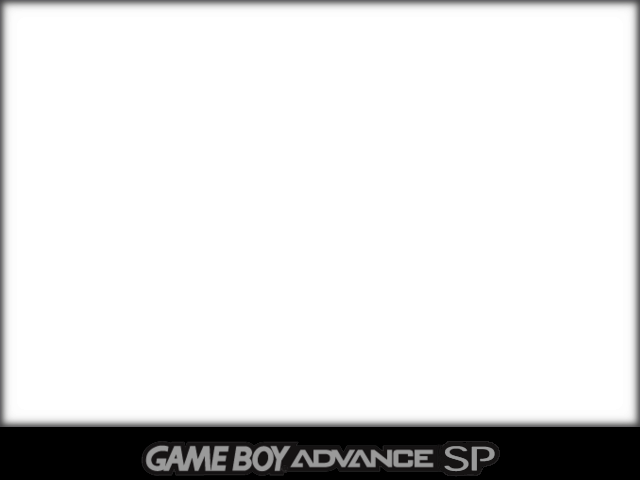
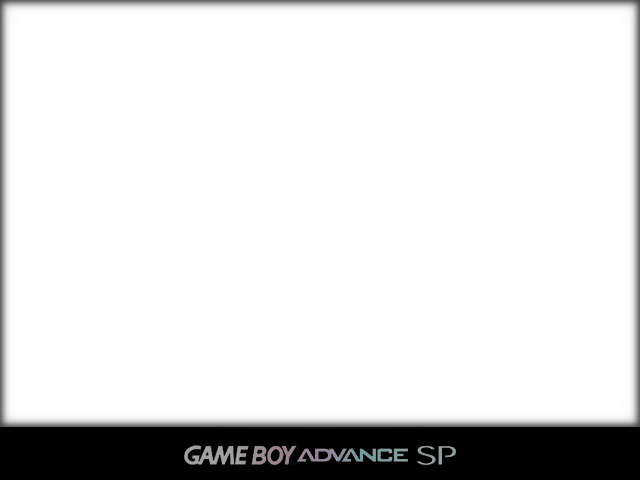
Added new GBA alt for SP based on an overlay by C1PH3RR

Changed region(s): [[0.2188, 0.9062, 0.7812, 1.0]]

diff --git a/README.md b/README.md
@@ -132,7 +132,7 @@ All 3:2 bezels have been adopted from [Batocera Bezels](https://github.com/batoc
 | MAME (vertical) | `fbneo-90-640x480`, `fbneo-270-640x480` | by [fabricecaruso](https://github.com/fabricecaruso) for [Batocera Bezels](https://github.com/batocera-linux/batocera-bezel), adopted by [chrizzo-hb](https://github.com/chrizzo-hb) to 640x480 scale for vertical aspect ratio |
 | Gameboy | `gb-640x480` | Perfect DMG-EX (no grid) by [mugwomp93](https://github.com/mugwomp93) |
 | Gameboy Advance | `gba-640x480` | Perfect GBA (no grid) by [mugwomp93](https://github.com/mugwomp93) |
-| Gameboy Advance SP (alternative) | `gba-alt-640x480` | Perfect GBA SP (no grid) by [mugwomp93](https://github.com/mugwomp93) |
+| Gameboy Advance SP (alternative) | `gba-alt-640x480` | Perfect GBA SP by [C1PH3RR](https://www.youtube.com/watch?v=3YU-_ZPXFhE), adopted by [chrizzo-hb] |
 | Gameboy Color | `gbc-640x480` | Perfect GBC (no grid) by [mugwomp93](https://github.com/mugwomp93) |
 | Atari Lynx (horizontal) | `lynx-640x480` | Overlay by [drkhrse](https://github.com/drkhrse/drkhrse_miyoo_bezels), converted to Batocera format by [nvitaterna](https://github.com/nvitaterna/batocera_4_3_handheld_bezels) |
 | Atari Lynx (vertical)| `lynx-640x480` | by [Duimon](https://github.com/Duimon) for [Batocera Bezels](https://github.com/batocera-linux/batocera-bezel), published under a [Creative Commons Attribution-NonCommercial-NoDerivatives 4.0 International License](https://creativecommons.org/licenses/by-nc-nd/4.0/) |
